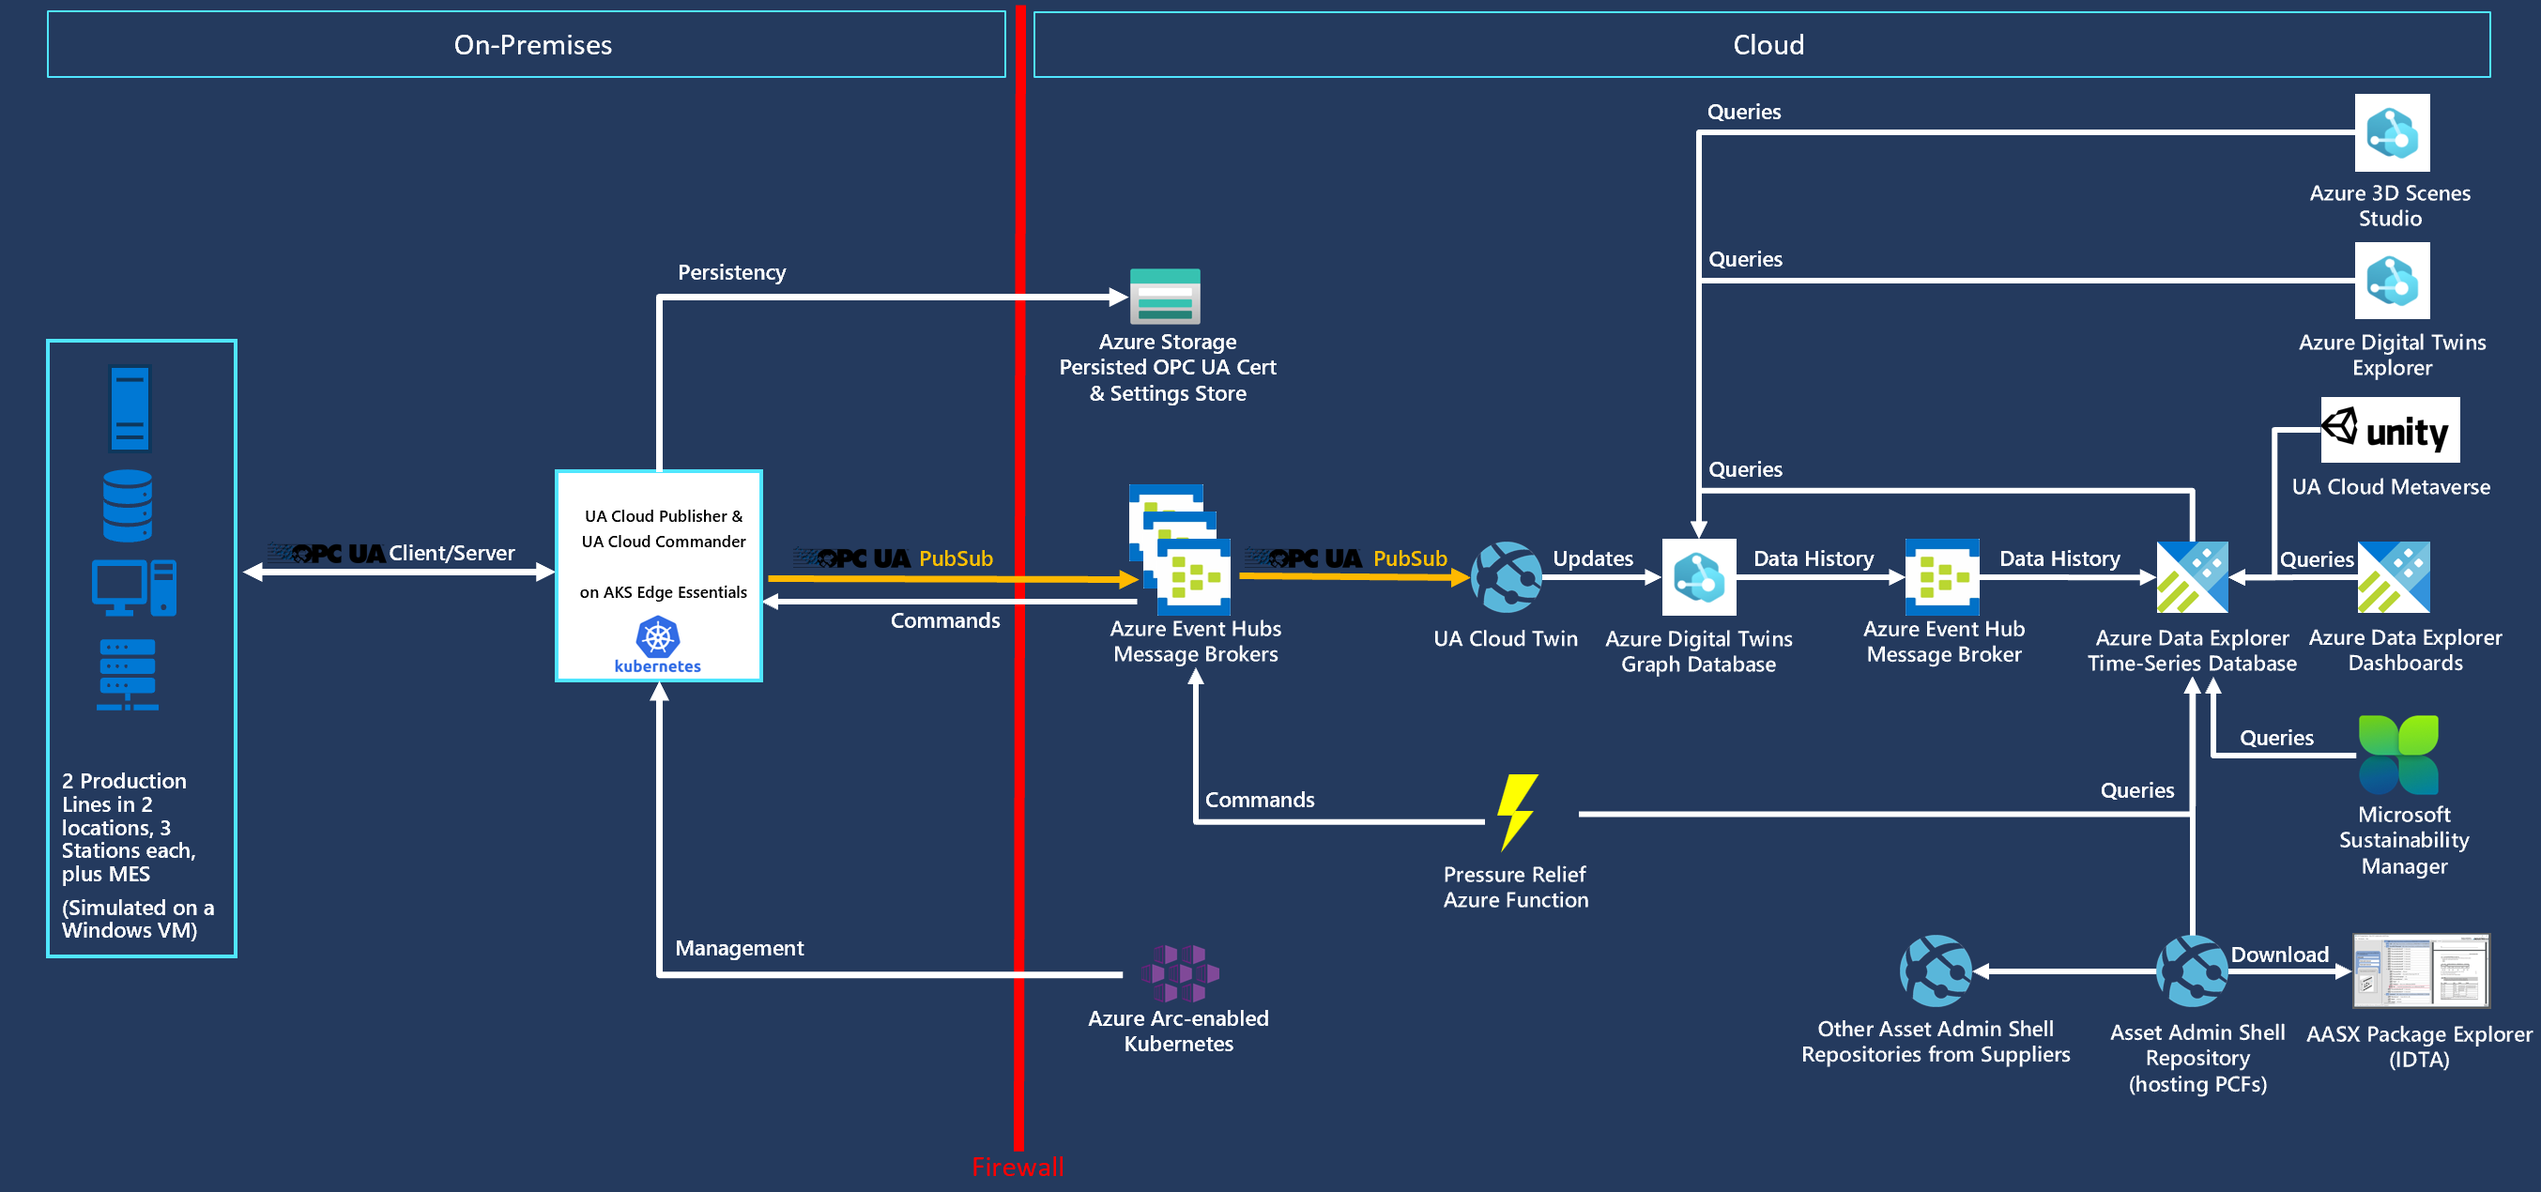
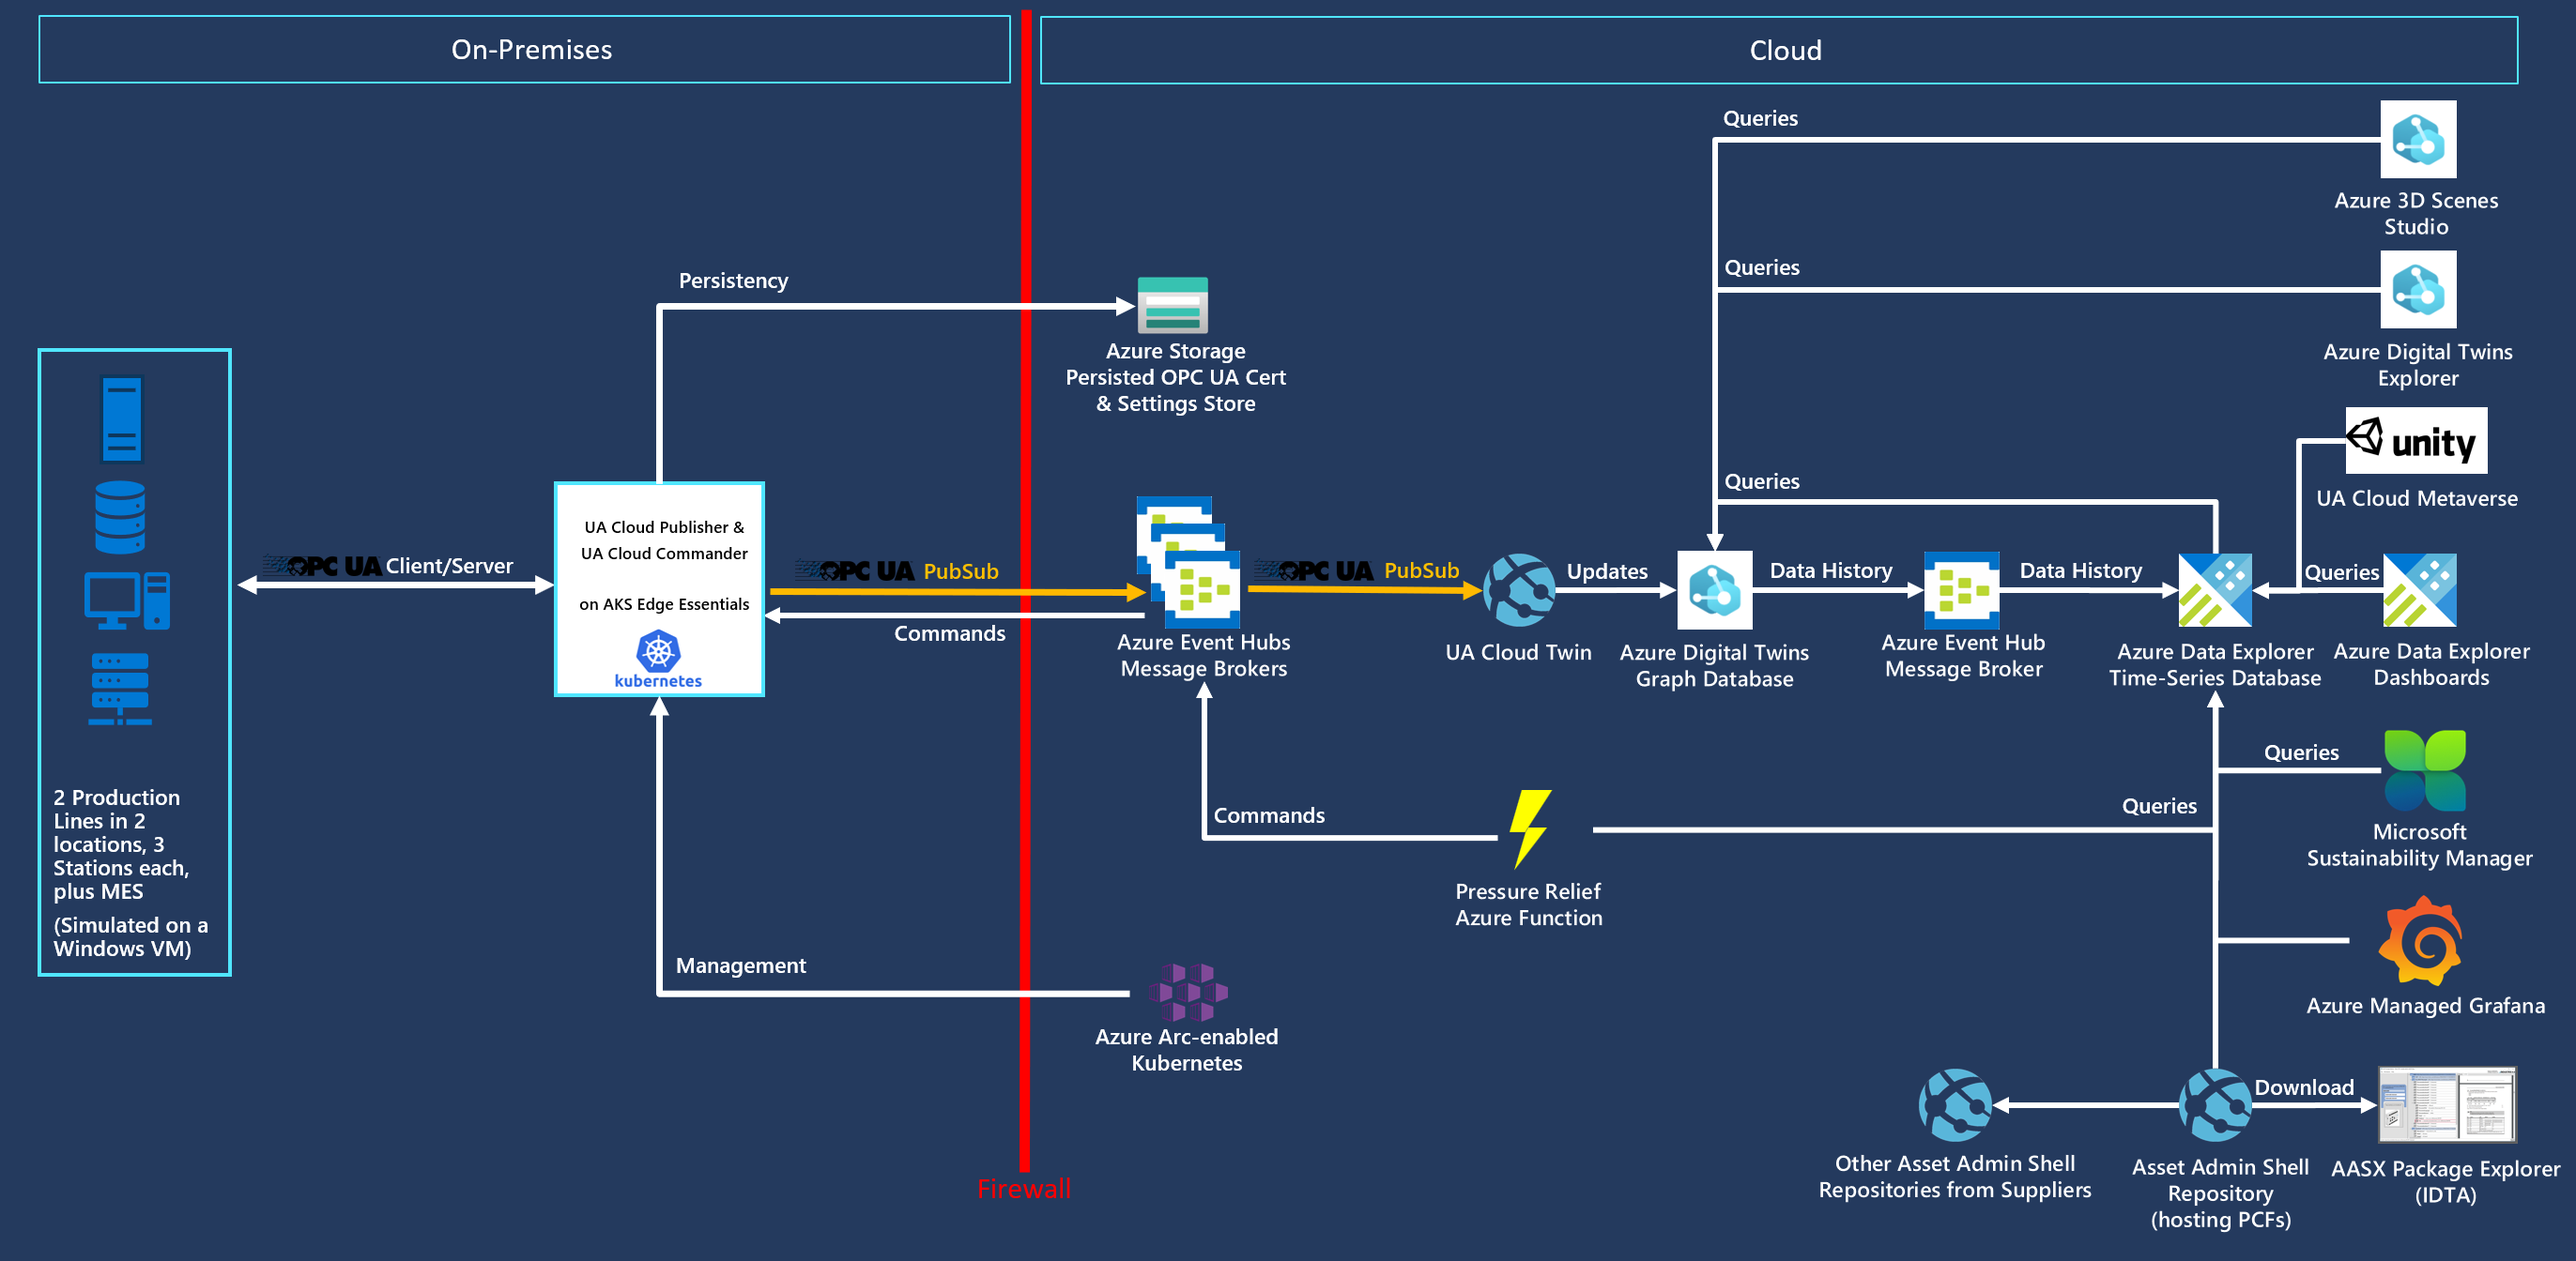
Updated Grafana docs.

Changed region(s): [[0.0, 0.0, 0.993, 0.9827]]

diff --git a/Tools/GrafanaDashboard/configuregrafana.md b/Tools/GrafanaDashboard/configuregrafana.md
@@ -1,13 +1,13 @@
-# Configure Grafana dashboard for Manufacturing ontologies
+# Configure Grafana dashboard
 
 ## Background Grafana
-Grafana is used within manufacturing to create dasbhoards that displays real-time data. Within Azure there is a service called the Azure Managed Grafana Managed . With this managed Grafana service can you create real-time dashboards based on the manufacturing ontologies solution in this repo. In this configuration manual you will enable Grafana on Azure and will create a dashboard with data that is coming from Azure Data Explorer and Azure Digital Twins from the simulators of this repo. The dashboard can look as follows:
+Grafana is used within manufacturing to create dasbhoards that displays real-time data. Azure offers a service named Azure Managed Grafana. With this, you can create cloud dashboards. In this configuration manual, you will enable Grafana on Azure and you will create a dashboard with data that is queried from Azure Data Explorer and Azure Digital Twins service, using the simulated production line data from this reference solution. Below is a screenshot from the dashboard:
 
 ![Sample manufacturing dashboard](example%20dashboard.png)
 
 ## Enable Azure Grafana Managed Grafana
 
-Go to the Microsoft Azure portal and search for the service Grafana and select the 'Azure Managed Grafana' service.
+Go to the Microsoft Azure portal and search for the service 'Grafana' and select the 'Azure Managed Grafana' service.
 
 ![Enable grafana service](enablegrafaservice.png)
 
@@ -19,11 +19,11 @@ After the service is created, navigate to the URL where you can have access to y
 
 ## Add new data source in Grafana
 
-After your first login you will need to add a new data source to Azure Data Explorer. Navigate to Congiraution and add a new datasource.
+After your first login, you will need to add a new data source to Azure Data Explorer. Navigate to 'Configuration' and add a new datasource.
 
 ![Add new service](adddatasroucegrafana.png)
 
-Search for Azure Data Explorer and select the service
+Search for Azure Data Explorer and select the service.
 
 ![Search ADX](searchadx.png)
 
@@ -37,24 +37,24 @@ Save and test your connection on the bottom of the page.
 
 Now we can import the provided sample dashboard. You can download it here: [Sample Grafana Manufacturing Dashboard](samplegrafanadashboard.json)
 
-Then go to 'Dashboard' and select below on Import
+Then go to 'Dashboard' and select 'Import'.
 
 ![Import file](importfile.png)
 
-Select the source that you have downloaded and click on Save. You will get an error on the page, because two variables are not set yet. Go the the settings page of the dashboard.
+Select the source that you have downloaded and click on 'Save'. You will get an error on the page, because two variables are not set yet. Go the the settings page of the dashboard.
 
 ![Settings of dashboard](settingsdashboard.png)
 
-Select on the left on 'Variables' And update the two URL with the URL of your Azure Digital Twins Service. 
+Select on the left on 'Variables' and update the two URL with the URL of your Azure Digital Twins Service. 
 
 ![Variable setting](variablesetting.png)
 
-After you have done that navigate back to the dashboard and hit the refresh button. You should see now data (don't forget to hit the save button on the dashboard).
+Then, navigate back to the dashboard and hit the refresh button. You should now see data (don't forget to hit the save button on the dashboard).
 
 ![End result](endresult.png)
 
 The location variable on the top of the page is automatically filled with data from Azure Digital Twins (the area nodes from ISA95). Here you can select the different locations and see the different datapoints of every factory. 
 
-If data is not showed on your dashboard, please go the individual panels and see if the right data source is selected:
+If data is not showing up in your dashboard, please navigate to the individual panels and see if the right data source is selected:
 
 ![Right data source selected](datasourceselected.png)

diff --git a/README.md b/README.md
@@ -193,6 +193,10 @@ You can also visit the [Azure Data Explorer documentation](https://learn.microso
 
 Note: After importing the ontologies dashboard, you need run all the provided ADX queries in the Query tab of your ADX cluster once to register the Kusto functions. You also need to set your ADT instance URL in the `CalculateOEEForLine.kql` query. Then, set the data source by providing your ADX cluster URI in the dashboard's hamburger menu (top-right-hand corner) under Data sources.
 
+## Using Azure Managed Grafana Service
+
+You can also leverage Grafana to create a dashboard on Azure for this reference solution. Please see the documentation [here](https://github.com/digitaltwinconsortium/ManufacturingOntologies/blob/main/Tools/GrafanaDashboard/configuregrafana.md).
+
 ## Using 3D Scenes Studio
 
 If you want to add a 3D viewer to the simulation, you can follow the steps to configure the 3D Scenes Studio outlined [here](https://learn.microsoft.com/en-us/azure/digital-twins/how-to-use-3d-scenes-studio) and map the 3D robot model from [here](https://cardboardresources.blob.core.windows.net/public/RobotArms.glb) to the digital twins automatically generated by the UA Cloud Twin:
